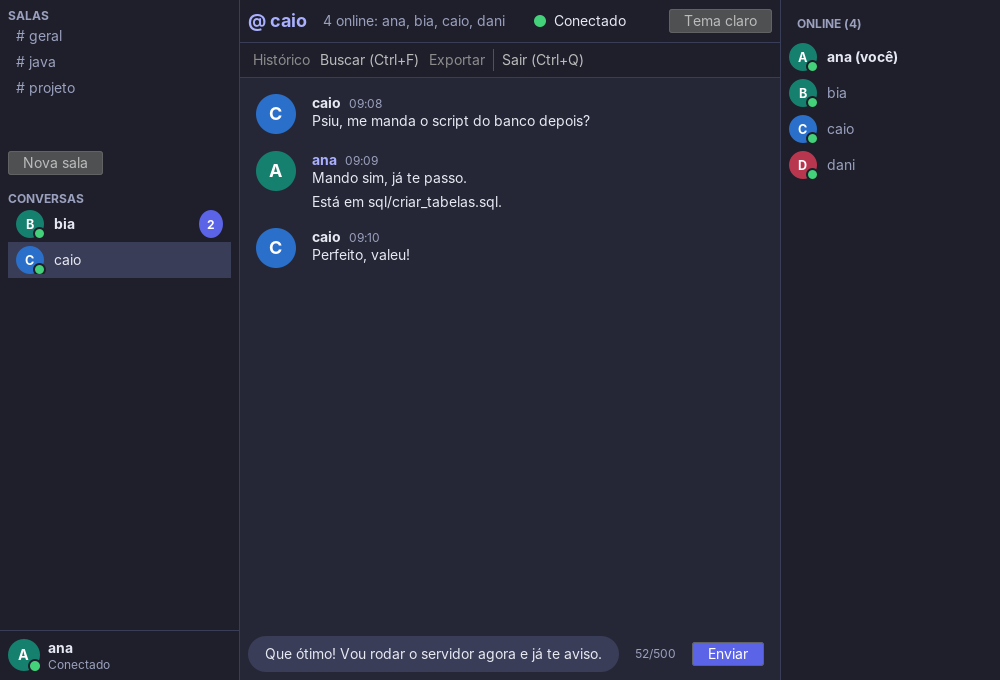
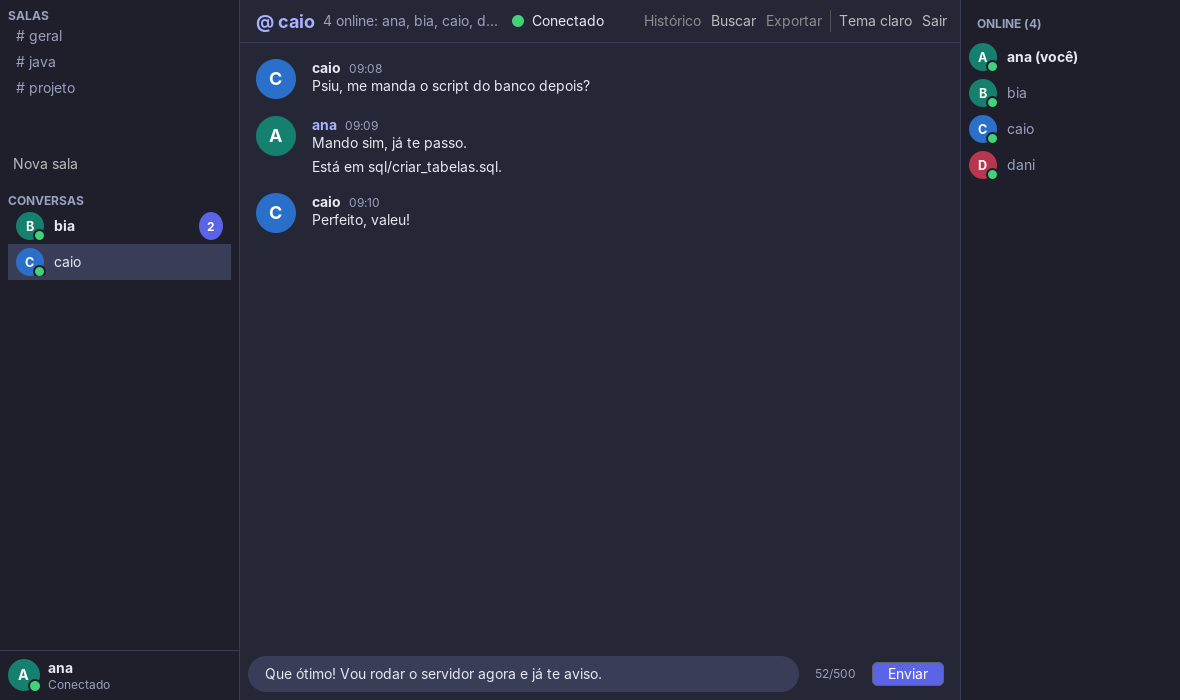
interface: cabeçalho em uma linha, botões no mesmo estilo e cantos arredondados padronizados; relatório e documentos atualizados

diff --git a/src/main/java/br/unicesumar/chat/client/ui/PainelChat.java b/src/main/java/br/unicesumar/chat/client/ui/PainelChat.java
@@ -7,9 +7,8 @@ import br.unicesumar.chat.client.controller.MensagemTela;
 import br.unicesumar.chat.client.controller.MensagemTela.Tipo;
 import com.formdev.flatlaf.FlatClientProperties;
 import java.awt.BorderLayout;
+import java.awt.Dimension;
 import java.awt.Component;
-import java.awt.GridBagConstraints;
-import java.awt.GridBagLayout;
 import java.awt.Insets;
 import java.awt.event.ActionEvent;
 import java.awt.event.MouseAdapter;
@@ -59,14 +58,14 @@ public class PainelChat extends JPanel implements ChatView {
     private final IndicadorConexao indicador;
     private final JButton botaoTema = new JButton("Tema escuro");
     private final JButton botaoHistorico = new JButton("Histórico");
-    private final JButton botaoBuscar = new JButton("Buscar (Ctrl+F)");
+    private final JButton botaoBuscar = new JButton("Buscar");
     private final JButton botaoExportar = new JButton("Exportar");
-    private final JButton botaoSair = new JButton("Sair (Ctrl+Q)");
+    private final JButton botaoSair = new JButton("Sair");
     private final PainelLateral lateral;
     private final PainelMensagens mensagens;
     private final PainelEntrada entrada;
     private final JLabel faixaDeAviso = new JLabel(" ");
-    private final JPanel topo = new JPanel(new GridBagLayout());
+    private final JPanel topo = new JPanel(new BorderLayout());
     private final JToolBar barra = new JToolBar();
     private final Timer relogioDaFaixa;
     private final Timer relogioDoHistorico;
@@ -142,37 +141,36 @@ public class PainelChat extends JPanel implements ChatView {
         botaoExportar.addActionListener(e -> exportar());
         botaoSair.addActionListener(e -> aoSair.run());
 
-        GridBagConstraints c = new GridBagConstraints();
-        c.insets = new Insets(Tema.espaco(1), Tema.espaco(1), Tema.espaco(1), Tema.espaco(1));
-        c.gridy = 0;
-        c.gridx = 0;
-        topo.add(titulo, c);
-        c.gridx = 1;
-        c.weightx = 1;
-        c.fill = GridBagConstraints.HORIZONTAL;
-        topo.add(resumoDeUsuarios, c);
-        c.gridx = 2;
-        c.weightx = 0;
-        c.fill = GridBagConstraints.NONE;
-        topo.add(indicador, c);
-        c.gridx = 3;
-        topo.add(botaoTema, c);
+        // Cabeçalho: título à esquerda, o resumo no meio (é ele que encolhe, com reticências) e,
+        // à direita, o indicador de conexão e os botões.
+        titulo.setBorder(BorderFactory.createEmptyBorder(Tema.espaco(1), Tema.espaco(2), Tema.espaco(1), Tema.espaco(1)));
+        resumoDeUsuarios.setMinimumSize(new Dimension(Tema.espaco(15), 0));
+        JPanel direita = new JPanel();
+        direita.setLayout(new javax.swing.BoxLayout(direita, javax.swing.BoxLayout.X_AXIS));
+        direita.setOpaque(false);
+        direita.setBorder(BorderFactory.createEmptyBorder(Tema.espaco(1), Tema.espaco(1), Tema.espaco(1), Tema.espaco(1)));
+        direita.add(indicador);
+        direita.add(javax.swing.Box.createHorizontalStrut(Tema.espaco(1)));
+        direita.add(barra);
+        topo.add(titulo, BorderLayout.WEST);
+        topo.add(resumoDeUsuarios, BorderLayout.CENTER);
+        topo.add(direita, BorderLayout.EAST);
 
         barra.setFloatable(false);
         barra.setRollover(true);
+        barra.setOpaque(false);
         barra.add(botaoHistorico);
         barra.add(botaoBuscar);
         barra.add(botaoExportar);
         barra.addSeparator();
+        barra.add(botaoTema);
         barra.add(botaoSair);
 
-        for (JButton b : List.of(botaoHistorico, botaoBuscar, botaoExportar, botaoSair)) {
-            b.putClientProperty(FlatClientProperties.BUTTON_TYPE, FlatClientProperties.BUTTON_TYPE_ROUND_RECT);
+        // Botões discretos, sem moldura, que ganham fundo ao passar o mouse; só o Enviar tem cor de destaque.
+        for (JButton b : List.of(botaoHistorico, botaoBuscar, botaoExportar, botaoTema, botaoSair)) {
+            b.putClientProperty(FlatClientProperties.BUTTON_TYPE, FlatClientProperties.BUTTON_TYPE_TOOLBAR_BUTTON);
         }
-        JPanel norte = new JPanel(new BorderLayout());
-        norte.setOpaque(false);
-        norte.add(topo, BorderLayout.NORTH);
-        norte.add(barra, BorderLayout.SOUTH);
+        JPanel norte = topo;
 
         JPanel centro = new JPanel(new BorderLayout());
         centro.setOpaque(false);
@@ -211,13 +209,11 @@ public class PainelChat extends JPanel implements ChatView {
     private void aplicarTema() {
         Tema.Paleta p = tema.paleta();
         setBackground(p.fundo());
-        topo.setBackground(p.superficie());
+        topo.setBackground(p.fundo());
         topo.setOpaque(true);
         topo.setBorder(BorderFactory.createMatteBorder(0, 0, 1, 0, p.borda()));
-        barra.setBackground(p.superficie());
-        barra.setBorder(BorderFactory.createCompoundBorder(
-                BorderFactory.createMatteBorder(0, 0, 1, 0, p.borda()),
-                BorderFactory.createEmptyBorder(Tema.espaco(1) / 2, Tema.espaco(1), Tema.espaco(1) / 2, Tema.espaco(1))));
+        barra.setOpaque(false);
+        barra.setBorder(null); // o FlatLaf reinstala a borda padrão ao trocar de visual
         titulo.setFont(tema.fonteTitulo());
         titulo.setForeground(p.textoDestaque());
         resumoDeUsuarios.setFont(tema.fonteCorpo());

diff --git a/src/test/java/br/unicesumar/chat/client/ui/PainelChatTest.java b/src/test/java/br/unicesumar/chat/client/ui/PainelChatTest.java
@@ -374,14 +374,15 @@ class PainelChatTest {
     }
 
     @Test
-    void osBotoesDaBarraTemAparenciaDeBotao() throws Exception {
+    void todosOsBotoesDoCabecalhoFicamNaMesmaLinhaDoTituloEComEstiloDiscreto() throws Exception {
         edt();
-        for (var b : List.of(painel.botaoHistorico(), painel.botaoBuscar(), painel.botaoExportar(), painel.botaoSair())) {
-            assertEquals("roundRect", b.getClientProperty("JButton.buttonType"), b.getText());
+        for (var b : List.of(painel.botaoHistorico(), painel.botaoBuscar(), painel.botaoExportar(), painel.botaoSair(),
+                painel.botaoTema())) {
+            assertTrue(SwingUtilities.isDescendingFrom(b, painel.topo()), b.getText());
+            assertEquals("toolBarButton", b.getClientProperty("JButton.buttonType"), b.getText());
         }
+        assertTrue(SwingUtilities.isDescendingFrom(painel.titulo(), painel.topo()));
     }
-
-    // ---------- nada fora da EDT ----------
 
     @Test
     void ochecadorDeEdtRealmenteDetectaAlteracaoForaDaEdt() throws Exception {
@@ -533,13 +534,12 @@ class PainelChatTest {
     }
 
     @Test
-    void cabecalhoEBarraDeMensagemFicamSoSobOChatEntreAsDuasColunas() throws Exception {
+    void cabecalhoECaixaDeMensagemFicamSoNoChatEntreAsDuasColunas() throws Exception {
         edt();
         LayoutDeTeste.forcar(painel, 1200, 700);
         int esquerda = painel.lateral().getWidth();
         int direita = painel.lateral().colunaDosMembros().getWidth();
         assertEquals(1200 - esquerda - direita, painel.topo().getWidth());
-        assertEquals(1200 - esquerda - direita, painel.barra().getWidth());
         assertEquals(1200 - esquerda - direita, painel.entrada().getWidth());
     }
 
@@ -559,5 +559,30 @@ class PainelChatTest {
         painel.lateral().atualizarUsuarios(List.of("ana", "bia"), "ana");
         painel.lateral().acionarUsuario(1);
         esperar(() -> "Mensagem para @bia".equals(painel.entrada().campo().getClientProperty("JTextField.placeholderText")));
+    }
+
+    @Test
+    void botoesDoCabecalhoTemTextoCurtoEOAtalhoFicaNaDica() throws Exception {
+        edt();
+        assertEquals("Buscar", painel.botaoBuscar().getText());
+        assertTrue(painel.botaoBuscar().getToolTipText().contains("Ctrl+F"));
+        assertEquals("Sair", painel.botaoSair().getText());
+        assertTrue(painel.botaoSair().getToolTipText().contains("Ctrl+Q"));
+    }
+
+    @Test
+    void oResumoEOIndicadorDeConexaoCabemNoCabecalhoNaLarguraPadraoDaJanela() throws Exception {
+        edt();
+        LayoutDeTeste.forcar(painel, 1180, 700);
+        assertTrue(painel.resumoDeUsuarios().getWidth() > 80, "resumo " + painel.resumoDeUsuarios().getWidth());
+        assertTrue(painel.indicador().getWidth() > 40, "indicador " + painel.indicador().getWidth());
+    }
+
+    @Test
+    void naLarguraMinimaDaJanelaOIndicadorContinuaInteiroEOResumoEncolhe() throws Exception {
+        edt();
+        LayoutDeTeste.forcar(painel, 1080, 560);
+        assertEquals(painel.indicador().getPreferredSize().width, painel.indicador().getWidth());
+        assertTrue(painel.resumoDeUsuarios().getWidth() >= 60, "resumo " + painel.resumoDeUsuarios().getWidth());
     }
 }

diff --git a/src/main/java/br/unicesumar/chat/client/ui/Tema.java b/src/main/java/br/unicesumar/chat/client/ui/Tema.java
@@ -48,6 +48,9 @@ public final class Tema {
             Color textoBalaoPrivado, Color erro, Color sucesso, Color atencao) {
     }
 
+    /** Raio dos cantos de botões, campos e caixas: o mesmo em toda a interface. */
+    public static final int RAIO_DOS_CANTOS = 12;
+
     /** Unidade da grade de espaçamento, em pixels. */
     public static final int GRADE = 8;
     /** Tamanho da fonte do corpo (nunca abaixo de 13). */
@@ -176,8 +179,11 @@ public final class Tema {
      */
     public void instalarLookAndFeel() {
         Color destaque = paleta().destaque();
-        FlatLaf.setGlobalExtraDefaults(Map.of("@accentColor",
-                String.format("#%02X%02X%02X", destaque.getRed(), destaque.getGreen(), destaque.getBlue())));
+        FlatLaf.setGlobalExtraDefaults(Map.of(
+                "@accentColor", String.format("#%02X%02X%02X", destaque.getRed(), destaque.getGreen(), destaque.getBlue()),
+                "Button.arc", String.valueOf(RAIO_DOS_CANTOS),
+                "Component.arc", String.valueOf(RAIO_DOS_CANTOS),
+                "TextComponent.arc", String.valueOf(RAIO_DOS_CANTOS)));
         if (modo == Modo.CLARO) {
             FlatLightLaf.setup();
         } else {

diff --git a/src/test/java/br/unicesumar/chat/client/ui/TemaTest.java b/src/test/java/br/unicesumar/chat/client/ui/TemaTest.java
@@ -179,4 +179,14 @@ class TemaTest {
         assertTrue(visualNoMomentoDoAviso.get(0).contains("Dark"),
                 "o aviso veio antes de instalar o visual: " + visualNoMomentoDoAviso.get(0));
     }
+
+    @Test
+    void instalarOLookAndFeelPadronizaOsCantosArredondadosDeBotoesECampos() {
+        for (Modo modo : Modo.values()) {
+            new Tema(modo).instalarLookAndFeel();
+            assertEquals(12, javax.swing.UIManager.getInt("Button.arc"), modo.toString());
+            assertEquals(12, javax.swing.UIManager.getInt("Component.arc"), modo.toString());
+            assertEquals(12, javax.swing.UIManager.getInt("TextComponent.arc"), modo.toString());
+        }
+    }
 }

diff --git a/src/main/java/br/unicesumar/chat/client/ui/PainelLateral.java b/src/main/java/br/unicesumar/chat/client/ui/PainelLateral.java
@@ -144,6 +144,8 @@ public class PainelLateral extends JPanel {
         rolagemDeConversas.setAlignmentX(Component.LEFT_ALIGNMENT);
         rolagemDeConversas.setBorder(null);
 
+        botaoNovaSala.putClientProperty(com.formdev.flatlaf.FlatClientProperties.BUTTON_TYPE,
+                com.formdev.flatlaf.FlatClientProperties.BUTTON_TYPE_TOOLBAR_BUTTON);
         botaoNovaSala.setToolTipText("Criar uma sala nova e entrar nela");
         botaoNovaSala.getAccessibleContext().setAccessibleName("Nova sala");
         botaoNovaSala.setAlignmentX(Component.LEFT_ALIGNMENT);

diff --git a/src/test/java/br/unicesumar/chat/client/ui/IndicadorConexaoTest.java b/src/test/java/br/unicesumar/chat/client/ui/IndicadorConexaoTest.java
@@ -91,4 +91,10 @@ class IndicadorConexaoTest {
         assertThrows(NullPointerException.class, () -> new IndicadorConexao(null));
         assertThrows(NullPointerException.class, () -> new IndicadorConexao(tema).definir(null));
     }
+
+    @Test
+    void tamanhoMinimoEIgualAoPreferidoParaOLayoutNaoEncolherOIndicador() {
+        IndicadorConexao indicador = new IndicadorConexao(new Tema(Tema.Modo.CLARO));
+        assertEquals(indicador.getPreferredSize(), indicador.getMinimumSize());
+    }
 }

diff --git a/src/test/java/br/unicesumar/chat/client/ui/JanelasGuiTest.java b/src/test/java/br/unicesumar/chat/client/ui/JanelasGuiTest.java
@@ -238,4 +238,10 @@ class JanelasGuiTest {
         assertTrue(cores.size() > 4, "a janela parece vazia: " + cores.size() + " cores");
         assertTrue(imagem.getWidth() > 700 && imagem.getHeight() > 400);
     }
+
+    @Test
+    void chatTemLarguraMinimaSuficienteParaAsTresColunas() throws Exception {
+        criarJanelas(new AtomicInteger(), new AtomicInteger());
+        assertTrue(chat.getMinimumSize().width >= 1080, "largura mínima " + chat.getMinimumSize().width);
+    }
 }

diff --git a/src/test/java/br/unicesumar/chat/demo/CapturasDeTela.java b/src/test/java/br/unicesumar/chat/demo/CapturasDeTela.java
@@ -129,7 +129,7 @@ public final class CapturasDeTela {
             preencher(chat[0]);
             chat[0].painel().entrada().campo().setText("Que ótimo! Vou rodar o servidor agora e já te aviso.");
             chat[0].painel().entrada().campo().select(0, 0); // sem o texto marcado na captura
-            chat[0].setSize(new Dimension(1000, 680));
+            chat[0].setSize(new Dimension(1180, 700));
             chat[0].setVisible(true);
         });
         esperarEdt();

diff --git a/src/main/java/br/unicesumar/chat/client/ui/IndicadorConexao.java b/src/main/java/br/unicesumar/chat/client/ui/IndicadorConexao.java
@@ -101,6 +101,12 @@ public class IndicadorConexao extends JComponent {
         return new Dimension(MARGEM + DIAMETRO + Tema.espaco(1) + maior + MARGEM, altura);
     }
 
+    /** Sem isto o layout encolheria o indicador até sumir quando o cabeçalho aperta. */
+    @Override
+    public Dimension getMinimumSize() {
+        return getPreferredSize();
+    }
+
     @Override
     protected void paintComponent(Graphics g) {
         Graphics2D g2 = (Graphics2D) g.create();

diff --git a/src/test/java/br/unicesumar/chat/client/ui/PainelLateralAvataresTest.java b/src/test/java/br/unicesumar/chat/client/ui/PainelLateralAvataresTest.java
@@ -110,4 +110,9 @@ class PainelLateralAvataresTest {
         painel.selecionarConversa("bia");
         assertEquals(fundoDaOutra, celula(painel.listaDeSalas(), 0).fundo());
     }
+
+    @Test
+    void botaoNovaSalaTemOMesmoEstiloDiscretoDosBotoesDoCabecalho() {
+        assertEquals("toolBarButton", painel.botaoNovaSala().getClientProperty("JButton.buttonType"));
+    }
 }

diff --git a/src/main/java/br/unicesumar/chat/client/ui/JanelaChat.java b/src/main/java/br/unicesumar/chat/client/ui/JanelaChat.java
@@ -60,8 +60,8 @@ public class JanelaChat extends JFrame implements ChatView {
                 zerarNaoLidas();
             }
         });
-        setMinimumSize(new Dimension(800, 560));
-        setSize(1000, 680);
+        setMinimumSize(new Dimension(1080, 560));
+        setSize(1180, 700);
         setLocationRelativeTo(null);
     }
 

diff --git a/docs/RELATORIO.md b/docs/RELATORIO.md
@@ -8,7 +8,7 @@ Programação Orientada a Objetos · 2º bimestre · github.com/JoaoLucasVeiga/T
 
 O projeto é um chat cliente-servidor em Java 21 que usa sockets TCP. O servidor aceita vários clientes ao mesmo tempo, retransmite cada mensagem para todos os conectados e grava o histórico em um banco SQLite por JDBC. Quando um cliente conecta, recebe as últimas mensagens já gravadas.
 
-Além do núcleo pedido, o sistema tem lista de usuários online, mensagens privadas, salas, busca no histórico, login com senha protegida por PBKDF2, exportação do histórico e uma interface gráfica em Swing.
+Além do núcleo pedido, o sistema tem lista de usuários online, conversas privadas com histórico, salas, busca no histórico, login com senha protegida por PBKDF2 e um administrador que exporta o histórico, remove, bane e limpa salas. A interface gráfica, em Swing, tem três colunas (salas e conversas, chat e membros), avatares e mensagens em bloco.
 
 ## 2. Arquitetura
 
@@ -16,13 +16,13 @@ O código está dividido em pacotes, e cada um tem uma responsabilidade:
 
 - **model:** Usuario, Mensagem e Sala. É o domínio puro e não conhece rede, banco nem tela.
 
-- **persistence:** a interface MensagemRepository. Todo o SQL fica na implementação JDBC, em persistence.jdbc.
+- **persistence:** as interfaces MensagemRepository (mensagens, conversas privadas e limpeza de sala), UsuarioRepository e BanimentoRepository. Todo o SQL fica nas implementações JDBC, em persistence.jdbc.
 
-- **server:** Servidor, ClienteHandler, ClientRegistry e os serviços (ChatService, CommandService, SalaService, AuthService).
+- **server:** Servidor, ClienteHandler, ClientRegistry e os serviços (ChatService, CommandService, SalaService, AuthService, Administradores e PreparoDeAdmin).
 
-- **client:** o cliente de terminal, o controlador e as telas Swing.
+- **client:** o cliente de terminal, o controlador (que sabe se o usuário vê uma sala ou uma conversa privada) e as telas Swing (JanelaChat, PainelLateral, LinhaMensagem e AvatarIcon).
 
-- **protocol e infra:** a codificação das linhas de texto trocadas pelo socket, e a exportação e o log em arquivo.
+- **protocol e infra:** a codificação das linhas de texto trocadas pelo socket, e a exportação, o log em arquivo e a leitura da configuração do servidor.
 
 O caminho de uma mensagem é este:
 
@@ -36,7 +36,15 @@ O caminho de uma mensagem é este:
 
 Algumas decisões de projeto: o ChatService depende da interface do repositório, e a classe JDBC só é escolhida no main. Cada interface tem um adaptador real e um falso (repositório em memória e conexão falsa), o que permite testar sem rede e sem banco. Mensagem é um objeto de valor imutável, Usuario é uma entidade identificada pelo nome e Sala é a raiz do agregado.
 
-## 3. Concorrência
+## 3. Administração e conversas privadas
+
+**Administrador.** A conta do administrador não está no código. Ela vem do arquivo servidor.properties, que não vai para o GitHub, ou de variáveis de ambiente. O servidor cria a conta na partida, se ela não existir, com a senha guardada por PBKDF2 e salt. Sem essa configuração, ninguém é administrador e os comandos de administração ficam bloqueados. Só o administrador usa /exportar, /kick, /limpar, /ban, /unban e /bans, e ele não lê mensagens privadas.
+
+**Banimento.** O nome banido fica gravado no banco e continua valendo depois de reiniciar o servidor. Quem foi banido não entra com /login, mesmo com a senha certa, e não cria conta com esse nome. O banimento é por nome de usuário, não por endereço de rede.
+
+**Conversas privadas.** Cada conversa entre dois usuários é guardada no banco e consultada por par, nos dois sentidos. Dá para escrever a quem está offline, desde que tenha conta, e a pessoa vê a mensagem quando entrar. Na interface, há uma lista de conversas com contador de não lidas, e a conversa abre na área principal, separada do chat da sala. Cada usuário só enxerga as próprias conversas.
+
+## 4. Concorrência
 
 Cada cliente roda em uma thread própria. Os recursos que várias threads usam ao mesmo tempo, e como cada um foi protegido, estão na tabela abaixo.
 
@@ -54,11 +62,11 @@ Os campos lidos por mais de uma thread são volatile ou AtomicBoolean. Quando um
 
 **Riscos que ficaram.** A gravação no banco acontece dentro do lock de ordem, então um INSERT lento atrasa todos os envios. Foi mantido assim porque a mesma ordem para todos é o requisito. Também não há keep-alive TCP.
 
-## 4. Testes
+## 5. Testes
 
-São 908 testes com JUnit 5, todos passando. Os testes unitários não usam rede nem banco real. Os de integração usam SQLite em arquivo temporário e sockets em loopback. Os testes de concorrência usam 8 threads, @RepeatedTest(10), CountDownLatch e join, sem Thread.sleep. O repositório em memória e o JDBC passam pelo mesmo contrato de testes.
+São 1125 testes com JUnit 5, todos passando. Os testes unitários não usam rede nem banco real. Os de integração usam SQLite em arquivo temporário e sockets em loopback. Os testes de concorrência usam 8 threads, @RepeatedTest(10), CountDownLatch e join, sem Thread.sleep. O repositório em memória e o JDBC passam pelo mesmo contrato de testes.
 
-## 5. Onde a IA foi usada
+## 6. Onde a IA foi usada
 
 - O projeto foi desenvolvido com apoio do Claude (IA), que escreveu o código e os testes em etapas, seguindo TDD: primeiro o teste falhando, depois o mínimo de código. Cada etapa terminou com os testes verdes e um commit.
 
@@ -68,9 +76,11 @@ São 908 testes com JUnit 5, todos passando. Os testes unitários não usam rede
 
 - Erros da IA que foram encontrados: ela afirmou que os testes tinham passado em 8 rodadas sem ter contado. Passamos a conferir o resultado real de cada rodada, o que revelou testes instáveis, que foram consertados. Houve também um teste vermelho cujo defeito estava no próprio teste (um repositório falso que não falhava ao ler), corrigido depois.
 
-- Regra seguida: nenhum teste foi alterado só para passar. As mudanças em testes antigos foram autorizadas antes.
+- Depois da primeira entrega, a IA também implementou o administrador, o banimento, as conversas privadas e a nova interface, sempre com testes primeiro e em etapas.
 
-## 6. Limitações
+- Regra seguida: nenhum teste foi alterado só para passar. Os testes antigos que descreviam um comportamento que mudou de propósito (por exemplo, as mensagens privadas no meio da sala e os balões de mensagem) só foram atualizados com autorização do autor.
+
+## 7. Limitações
 
 - A senha trafega sem criptografia, porque não há TLS. O hash PBKDF2 com salt protege só o que fica gravado no banco.
 
@@ -78,12 +88,16 @@ São 908 testes com JUnit 5, todos passando. Os testes unitários não usam rede
 
 - A gravação dentro do lock de ordem pode atrasar os envios sob carga alta.
 
+- As mensagens não lidas das conversas privadas são contadas só enquanto a janela está aberta; não ficam guardadas entre sessões.
+
+- O banimento é por nome de usuário: quem foi banido pode tentar criar outro nome. Depois de /limpar, as telas já abertas só perdem as mensagens antigas ao reentrar na sala.
+
 - Ao ler mensagens antigas, a janela não avisa que chegaram mensagens novas.
 
 - CommandService e ChatService são as maiores classes e estão no limite do tamanho aceitável.
 
 - Os testes automáticos de janela rodaram só em Linux. No Windows, o iniciar-tudo.bat abriu o servidor e as janelas do chat.
 
-## 7. Como executar
+## 8. Como executar
 
-Baixe o repositório, instale o Java 21 e, na pasta do projeto, dê dois cliques em iniciar-tudo.bat (Windows). Na primeira vez ele compila o projeto sozinho e depois abre o servidor e três janelas do chat. Os detalhes e os comandos do chat estão no README.
+Baixe o repositório, instale o Java 21 e, na pasta do projeto, dê dois cliques em iniciar-tudo.bat (Windows). Na primeira vez ele compila o projeto sozinho e depois abre o servidor e três janelas do chat. Para usar o administrador, copie servidor.properties.exemplo para servidor.properties e preencha. Os detalhes e os comandos do chat estão no README.
